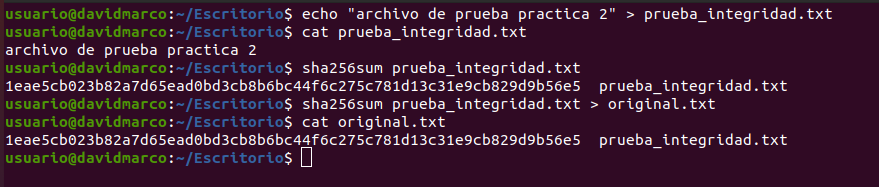
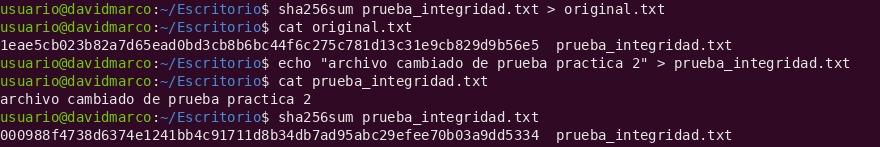
⬆ ASIR: Subida de nuevos materiales y prácticas

diff --git a/AUTOPDF/practica_seguridad.md b/AUTOPDF/practica_seguridad.md
@@ -41,3 +41,8 @@ cat prueba_integridad.txt
 ### 2. Generación del hash SHA-256 original
 
 A continuación, obtendremos la huella digital SHA-256 del archivo mediante el comando `sha256sum`, obteniendo una cadena hexadecimal única de 64 caracteres. Este valor lo almacenaremos en un fichero para tomarlo como referencia:
+
+```terminal
+sha256sum prueba_integridad.txt > original.txt
+cat original.txt
+```
